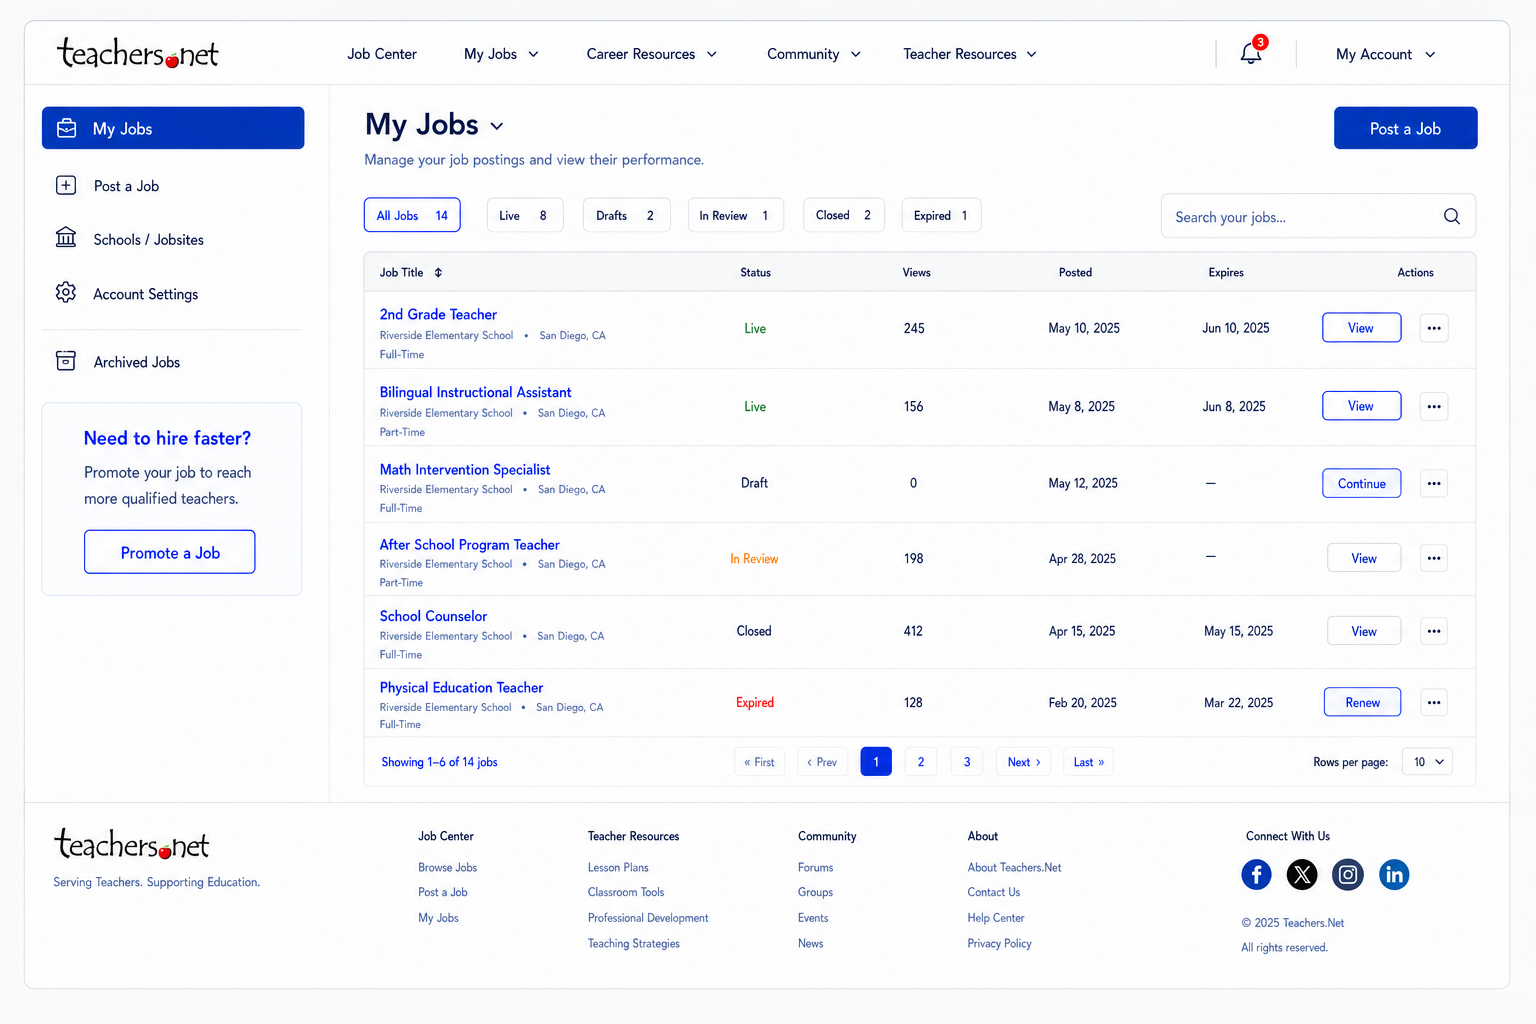
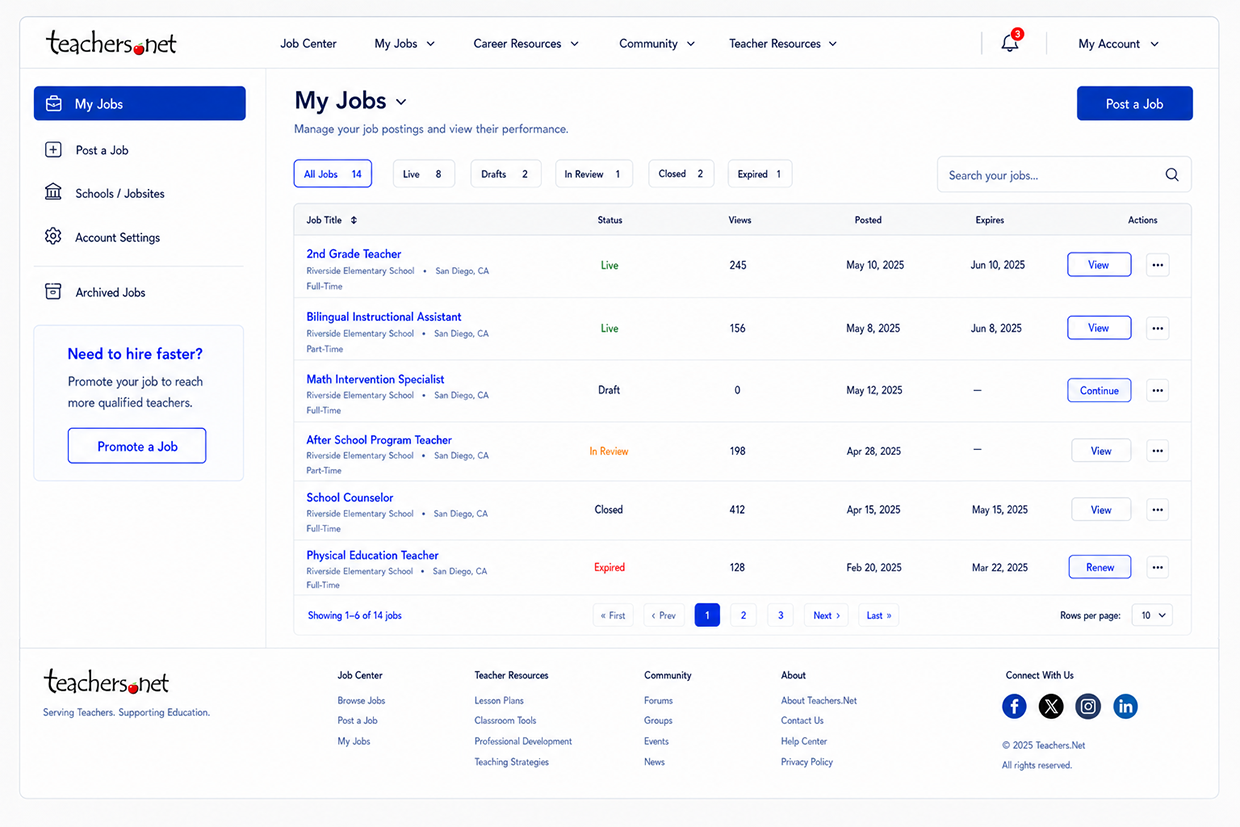
docs: replace JC-051A authority with calibrated raster

diff --git a/docs/job-center/project-cursor.md b/docs/job-center/project-cursor.md
@@ -29,8 +29,8 @@ CTA. EMP-IMP019 advanced the nested implementation baseline through commit
 `51afd38` with bounded brand, controller, rail-icon, and table-control
 convergence; that implementation history is not visual acceptance.
 JC-051A registered the approved Employer My Jobs Desktop Authority v1.0
-with controlled raster `docs/job-center/design/approved/jc-051a-employer-my-jobs-desktop-v1.0.png` (1536 × 1024;
[1 lines of base64/hex data omitted]
+with controlled raster `docs/job-center/design/approved/jc-051a-employer-my-jobs-desktop-v1.0.png` (1240 × 827;
[1 lines of base64/hex data omitted]
 future Employer Operations All My Jobs desktop convergence.
 
 RESP-DEC001 resolved the shared responsive decisions required to interpret the
@@ -113,8 +113,8 @@ product acceptance.
 
 JC-051A approves Employer My Jobs Desktop Authority v1.0, whose controlled copy is
 `docs/job-center/design/approved/jc-051a-employer-my-jobs-desktop-v1.0.png`
-(source `jc-050-unicard-001.png`; 1536 × 1024; SHA-256
[1 lines of base64/hex data omitted]
+(source `jc-050-unicard-002.png`; 1240 × 827; SHA-256
[1 lines of base64/hex data omitted]
 DESIGN-AUTHORITY007's replacement candidate, JC-050 v1.1, and JC-050 v1.0
 remain superseded historical evidence. EMP-DOC004's JC-051
 approval remains unchanged at

diff --git a/docs/job-center/design/approvals/jc-051a-employer-my-jobs-desktop-authority-v1.0.md b/docs/job-center/design/approvals/jc-051a-employer-my-jobs-desktop-authority-v1.0.md
@@ -8,10 +8,10 @@ Scope: Authenticated Employer My Jobs desktop visual authority
 ## Canonical artifact
 
 - Authority name: Employer My Jobs Desktop Authority v1.0
-- Source artifact: jc-050-unicard-001.png
+- Source artifact: jc-050-unicard-002.png
 - Controlled artifact: docs/job-center/design/approved/jc-051a-employer-my-jobs-desktop-v1.0.png
-- Dimensions: 1536 x 1024 source raster
-- SHA-256: 23b9e7168b4d0f9cde639436b5341a3ddbb4eee4da3168f310ff1e65167ae9f0
+- Dimensions: 1240 x 827 source raster
+- SHA-256: e142787148a881502f2e44e643ef34b375daf8d4e3208e2b43dbcbb602249702
 
 The controlled artifact is the sole current visual authority for the authenticated
 Employer My Jobs desktop composition. It supersedes earlier JC-050 concepts,

diff --git a/docs/job-center/engineering-handoff.md b/docs/job-center/engineering-handoff.md
@@ -16,7 +16,7 @@ implementation.
 
 JC-051A is complete: `jc-051a-employer-my-jobs-desktop-v1.0.png` is the approved
 canonical Employer My Jobs Desktop Authority v1.0, sourced from
-`jc-050-unicard-001.png` and superseding the prior JC-050 visual authorities. No
+`jc-050-unicard-002.png` and superseding the prior JC-050 visual authorities. No
 implementation ticket is active; the approval does not constitute
 implementation or acceptance.
 
@@ -43,8 +43,8 @@ JC-051A superseded the prior JC-050 All My Jobs desktop raster with the
 final approved Employer My Jobs Desktop Authority v1.0 while leaving JC-051 unchanged. The current approved
 desktop pair is:
 
-- Employer My Jobs Desktop Authority v1.0 (jc-051a-employer-my-jobs-desktop-v1.0.png, 1536 × 1024,
-  SHA-256 23b9e7168b4d0f9cde639436b5341a3ddbb4eee4da3168f310ff1e65167ae9f0)
+- Employer My Jobs Desktop Authority v1.0 (jc-051a-employer-my-jobs-desktop-v1.0.png, 1240 × 827,
+  SHA-256 e142787148a881502f2e44e643ef34b375daf8d4e3208e2b43dbcbb602249702)
 - JC-051 Single School / Job Site
 
 The approved direction treats My Jobs as the employer operating workspace.

diff --git a/docs/job-center/design/manifest.md b/docs/job-center/design/manifest.md
@@ -688,7 +688,7 @@ The status below is the artifact's governed classification. A path may relate to
 | `docs/job-center/design/approved/jc-050-final-01a.png` | Superseded controlled JC-050 All My Jobs desktop final authority | Superseded | JC-050 | Retained as historical evidence after JC-051A |
 | `/mnt/c/Main/Active/Projects/Teachers.Net/art/mockups/job center/specific-school-myjobs.png` | Engineering Director-approved Employer Operations Single School / Job Site source raster | Approved | JC-051 | EMP-DOC004 verified exact external source, 1536 × 1024 dimensions, and SHA-256; future work is Patch Mode |
 | `docs/job-center/design/approved/jc-051-employer-operations-school-job-site-desktop-v1.0.png` | Controlled JC-051 Single School / Job Site desktop authority copy | Approved | JC-051 | Byte-identical to the EMP-DOC004-verified source raster |
[2 lines of base64/hex data omitted]
 | `docs/job-center/design/approved/jc-051a-employer-my-jobs-desktop-v1.0.png` | Controlled Employer My Jobs Desktop Authority v1.0 | Approved | JC-050 | Byte-identical to the JC-051A source raster; current canonical desktop authority |
 | `docs/job-center/design/draft/employer-operations-mobile-contracted-selector-candidate.png` | Provisional Employer Operations mobile contracted-selector adaptation | Responsive Candidate / Implementation Target / Pending Browser Verification | JC-050, JC-051 | Exact external source recorded by EMP-DOC004A; not an Approved authority |
 | `docs/job-center/design/draft/employer-operations-mobile-expanded-selector-candidate.png` | Provisional Employer Operations mobile expanded-selector adaptation | Responsive Candidate / Implementation Target / Pending Browser Verification | JC-050, JC-051 | Exact external source recorded by EMP-DOC004A; not an Approved authority |

diff --git a/docs/job-center/employer-dashboard-my-jobs-authority-contract-v1.md b/docs/job-center/employer-dashboard-my-jobs-authority-contract-v1.md
@@ -5,7 +5,7 @@ Ticket: EMP-AUTH003
 Scope: Employer Operations / My Jobs only
 Dependency: [Employer Access and Authority Contract v1](employer-access-authority-contract-v1.md)
 
[2 lines of base64/hex data omitted]
 
 JC-051A records the current visual authority's approved navigation sequence, 1200/250/950 shell geometry, My Jobs heading caret, Post a Job CTA, Live/In Review terminology, plain non-Live status treatment, expiration-date treatment, visible row actions, and integrated-footer composition. Product semantics, authorization, accessibility, and implementation behavior remain governed by their existing contracts and must not be inferred from raster appearance alone.
 